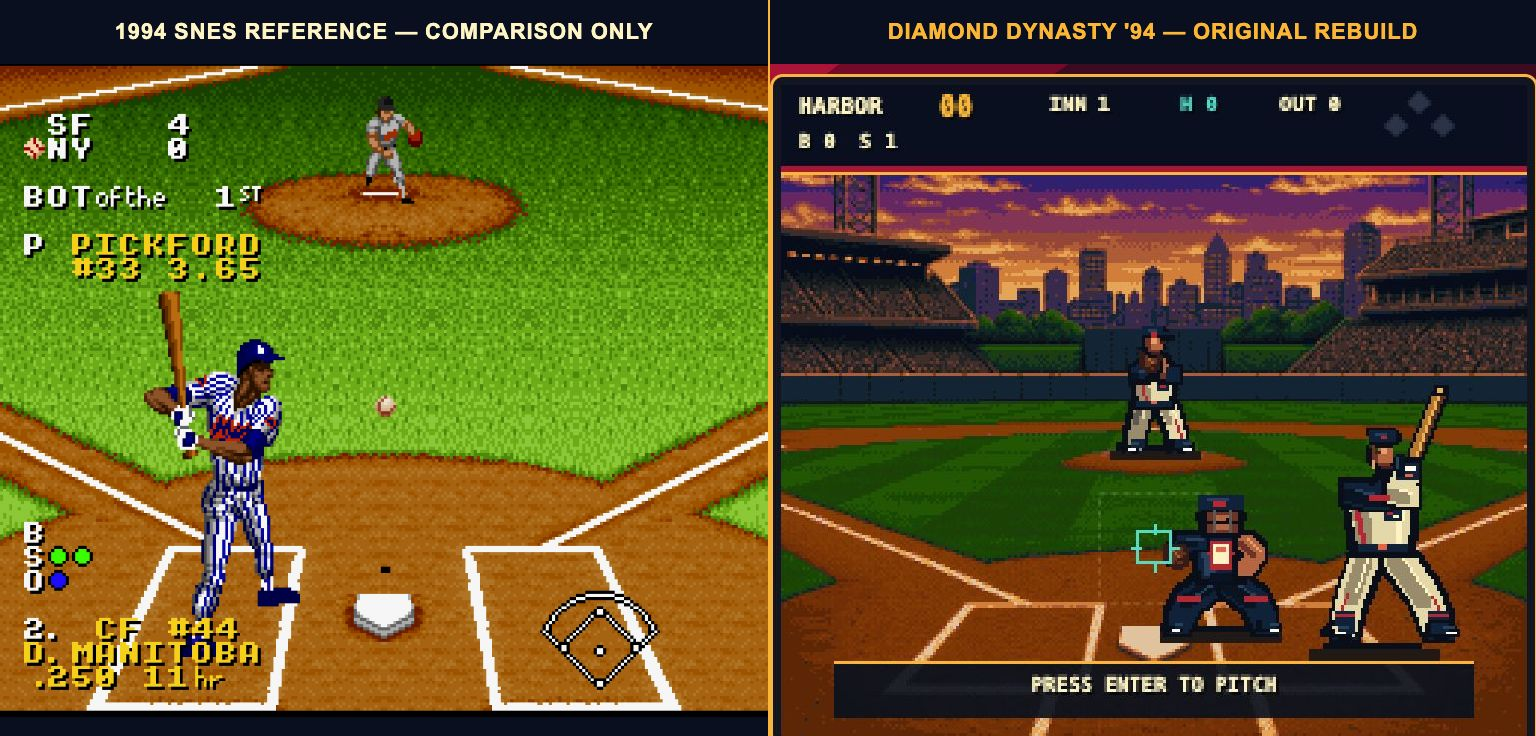
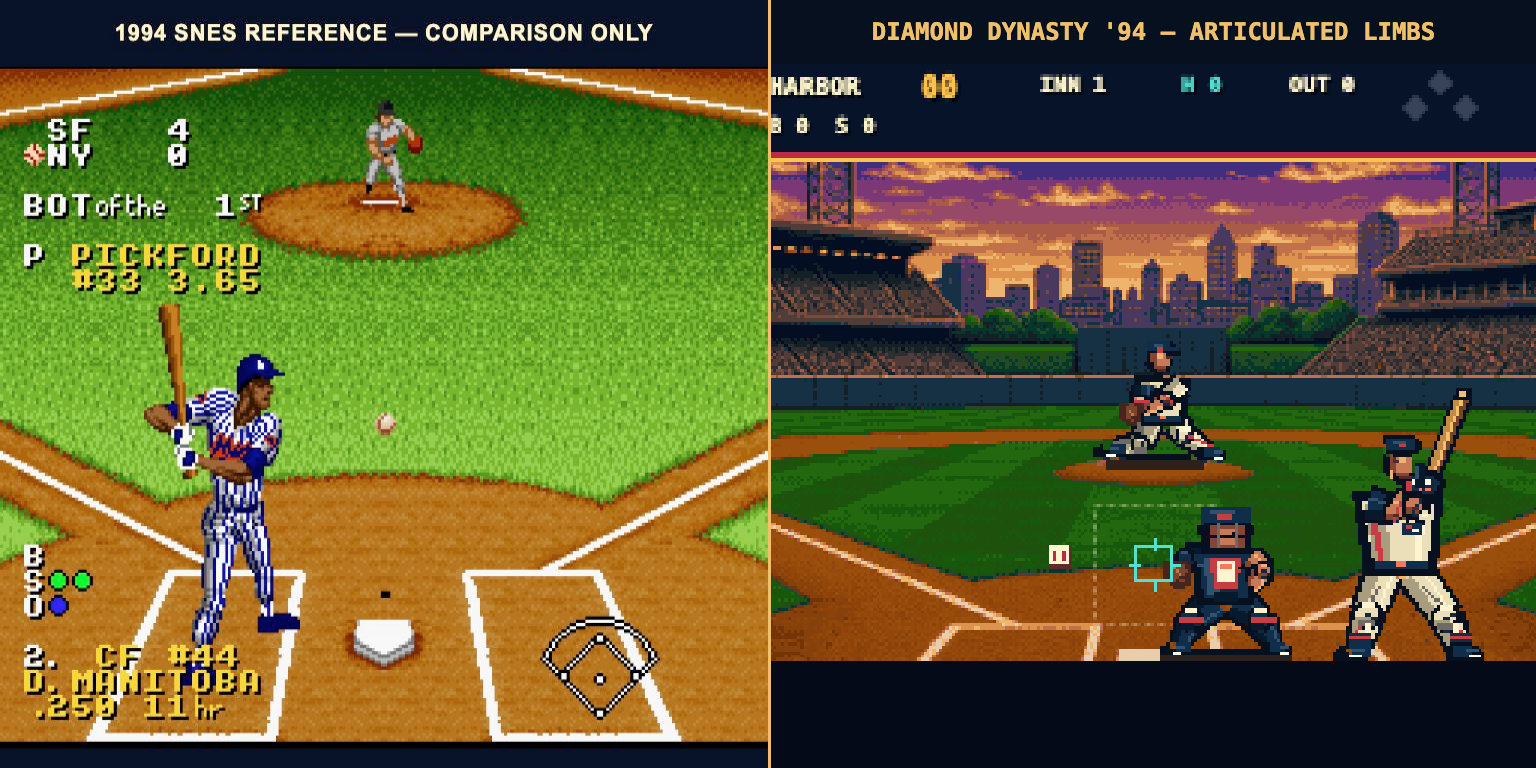
Rebuild pixel player limb anatomy

diff --git a/prototypes/diamond-dynasty/index.html b/prototypes/diamond-dynasty/index.html
@@ -52,6 +52,6 @@ Date: 2026-08-20 -->
         Original code, characters, venue, sound synthesis, and pixel treatment. No MLB, Nintendo, or licensed game assets.
       </footer>
     </main>
-    <script type="module" src="./src/game.mjs?v=character-rebuild-v2"></script>
+    <script type="module" src="./src/game.mjs?v=articulated-limbs-v3"></script>
   </body>
 </html>

diff --git a/prototypes/diamond-dynasty/CHARACTER_ART_COMPARISON.md b/prototypes/diamond-dynasty/CHARACTER_ART_COMPARISON.md
@@ -5,7 +5,10 @@
 ## Outcome
 
 The original batter, pitcher, and catcher have been rebuilt as native-grid
-pixel characters. The shipped art is rasterized from original geometry in
+pixel characters. The second art pass specifically replaces constant-width
+line limbs with tapered upper and lower segments, joint silhouettes, cloth and
+muscle shadow planes, skin forearms, cuffs, trouser creases, kneecaps, calves,
+socks, and cleats. The shipped art is rasterized from original geometry in
 `src/player-art.mjs`; no pixels, palettes, poses, logos, uniforms, names, or
 likenesses were extracted from a commercial game.
 
@@ -18,25 +21,28 @@ and is not loaded by the prototype. Source:
 [MobyGames' screenshot index](https://www.mobygames.com/game/26316/ken-griffey-jr-presents-major-league-baseball/screenshots/)
 independently identifies the title and its native SNES screenshots.
 
-## Internal detail rubric
+## Animation evidence
 
-This is a production-target check, not an external review score.
+![Seven batter and pitcher animation states](screenshots/character-animation-sheet.png)
 
-| Criterion | Weight | Result | Evidence |
-|---|---:|---:|---|
-| Native silhouette and scale | 20% | 8.5/10 | Batter is a readable 75-pixel figure; pitcher preserves depth while adding a 40-pixel articulated silhouette. |
-| Anatomy and pose articulation | 20% | 9.0/10 | Separate shoulders, elbows, hands, hips, knees, ankles, weight transfer, stride, release, and follow-through. |
-| Palette, contour, and material shading | 20% | 9.0/10 | Hard-pixel scanline rasterizer; outline hierarchy; highlight/base/shadow/deep ramps for skin, cloth, leather, wood, and mask bars. |
-| Uniform and equipment detail | 15% | 9.0/10 | Original crest, piping, belt, buckle, socks, cleats, batting gloves, helmet flap, bat grain, glove web, catcher mask, chest protector, and leg guards. |
-| Animation coverage and readability | 20% | 9.5/10 | Seven batter states and seven pitcher states; catcher has a detailed set pose; each major motion changes the full silhouette. |
-| Originality and pixel integrity | 5% | 10/10 | Original code and characters, integer-grid raster output, no antialiasing or commercial asset reuse. |
-| **Weighted result** | **100%** | **9.1/10** | Meets the requested 9/10 internal detail target. |
+The first pass's self-assigned `9.1/10` score is withdrawn. Human review
+correctly identified that the torso and equipment had more detail than the
+constant-width arms and legs. This revision uses visual evidence and concrete
+checks rather than assigning itself a replacement score.
 
-The remaining visible difference is intentional: the reference uses licensed
-team presentation and dense blue pinstripes; Diamond Dynasty uses a fictional
-navy, cream, and coral identity with broader shadow clusters. Character art
-quality is now comparable in detail density without attempting a trace or
-one-to-one replica.
+| Acceptance check | Evidence |
+|---|---|
+| Joint anatomy | Separate shoulder, elbow, wrist, hip, knee, calf, and ankle silhouettes; joint clusters remain visible through all fourteen moving poses. |
+| Limb volume | Upper and lower limbs taper independently and carry highlight, base, shadow, and crease clusters rather than uniform-width strokes. |
+| Frame-specific motion | Weight transfer, leg lift, stride, release, bat extension, and follow-through alter the complete silhouette. |
+| Uniform and equipment | Original crest, piping, belt, buckle, cuffs, socks, cleats, batting gloves, helmet flap, bat grain, glove web, mask, chest protector, and guards. |
+| Pixel integrity | Automated raster tests require positive integer rectangles for every batter, pitcher, and catcher render; no canvas antialiasing is used. |
+| Originality | Original code and fictional characters; no traced or extracted commercial sprite pixels. |
+
+The reference uses licensed team presentation and dense blue pinstripes;
+Diamond Dynasty uses a fictional navy, cream, and coral identity with broader
+shadow clusters. The intended comparison is anatomical detail density and
+animation readability, not a trace or one-to-one replica.
 
 ## Animation inventory
 

diff --git a/prototypes/diamond-dynasty/REPORT.md b/prototypes/diamond-dynasty/REPORT.md
@@ -34,25 +34,28 @@ legible over the field at native resolution. Desktop and `390×844` mobile QA
 both preserve the 8:7 game screen, usable controls, and scoreboard without
 horizontal overflow.
 
-The rebuilt character set scores 9.1/10 on the internal detail rubric in
-`CHARACTER_ART_COMPARISON.md`: comparable native scale, articulated anatomy,
-multi-ramp shading, detailed fictional uniforms and equipment, and seven-state
-delivery and swing animation. This is not an external review score. The
-prototype should not be represented as a 9/10 complete game against a finished
-SNES title: fielding, defence, team depth, broadcast transitions, and a complete
-game loop remain.
+Human review rejected the first rebuilt character set because its limbs still
+used constant-width strokes despite the torso detail. The second pass replaces
+those strokes with tapered upper and lower anatomy, shaped joints, skin and
+cloth material planes, cuffs, trouser creases, kneecaps, calves, socks, and
+cleats. `CHARACTER_ART_COMPARISON.md` now provides the side-by-side and full
+fourteen-pose sheet. The earlier self-assigned `9.1/10` art score is withdrawn;
+acceptance rests with human visual review. The prototype should not be
+represented as a 9/10 complete game against a finished SNES title: fielding,
+defence, team depth, broadcast transitions, and a complete game loop remain.
 
 ### Metrics
 
 - Native gameplay canvas: `256×224`
 - Final background asset: indexed PNG, 32-color target, 20 KB
 - Pixel-Bench 0.1.0 validation: `all images look like native 1x pixel art`
-- Automated gameplay and animation model: 13/13 tests passed
+- Automated gameplay, animation, and raster integrity: 15/15 tests passed
 - Desktop rendered canvas observed: `752×656`, no horizontal overflow
 - Mobile QA viewport: `390×844`, no console errors or warnings
 - Pitch repertoire: 3 pitches, 79–95 MPH, distinct duration and break
 - Batter animation: 7 frame states; pitcher animation: 7 frame states
-- Character-detail rubric: 9.1/10 internal target score; no external rating yet
+- Character-detail evidence: reference comparison plus fourteen-pose sheet;
+  no self-assigned or external rating
 - Outcome set: ball, called strike, swinging strike, foul, out, single, double,
   triple, home run, walk, strikeout, inning turnover
 - External player rating: not yet collected

diff --git a/prototypes/diamond-dynasty/README.md b/prototypes/diamond-dynasty/README.md
@@ -51,9 +51,9 @@ node --test tests/*.test.mjs
 
 The core at-bat is readable and replayable on desktop and mobile, the original
 sprite states communicate windup and swing timing, and the deterministic model
-passes all thirteen gameplay and animation tests. The rebuilt character set
-scores 9.1/10 on the explicit internal detail rubric in
-`CHARACTER_ART_COMPARISON.md`. That is not an external review score, and this
-prototype is not yet a complete game comparable feature-for-feature with a
-finished SNES cartridge. See `REPORT.md` for the evidence and production
-recommendation.
+passes all fifteen gameplay, animation, and integer-raster tests. The revised
+character comparison and complete fourteen-pose animation sheet are in
+`CHARACTER_ART_COMPARISON.md`. The earlier self-assigned art score was withdrawn
+after human review; the images are now the acceptance evidence. This prototype
+is not yet a complete game comparable feature-for-feature with a finished SNES
+cartridge. See `REPORT.md` for the production recommendation.
